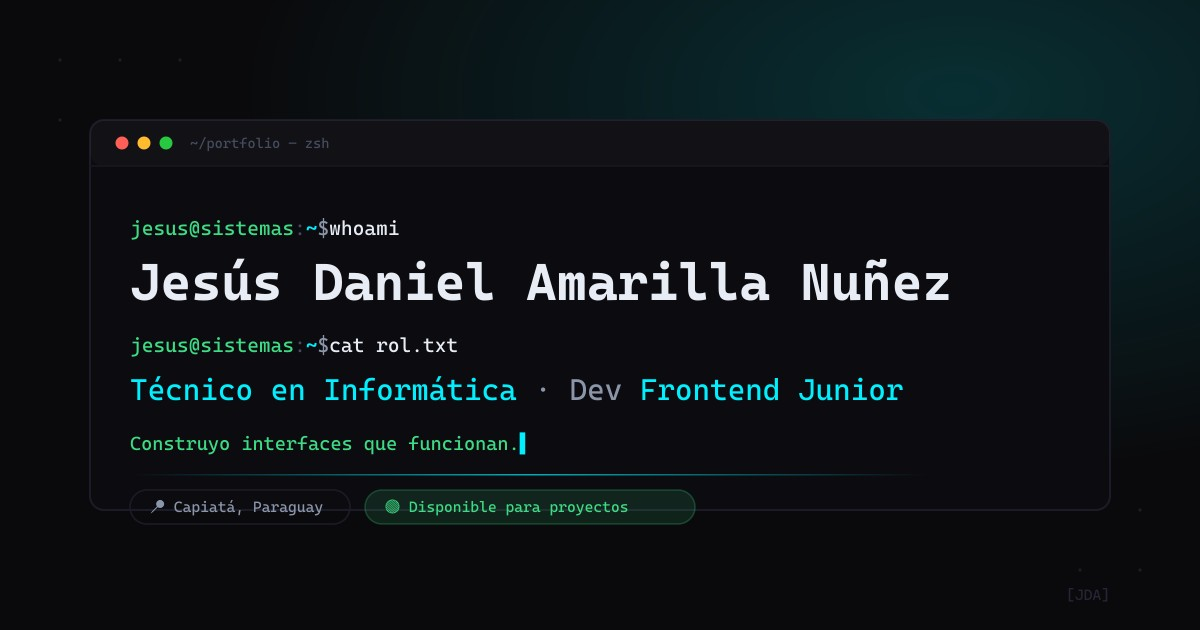
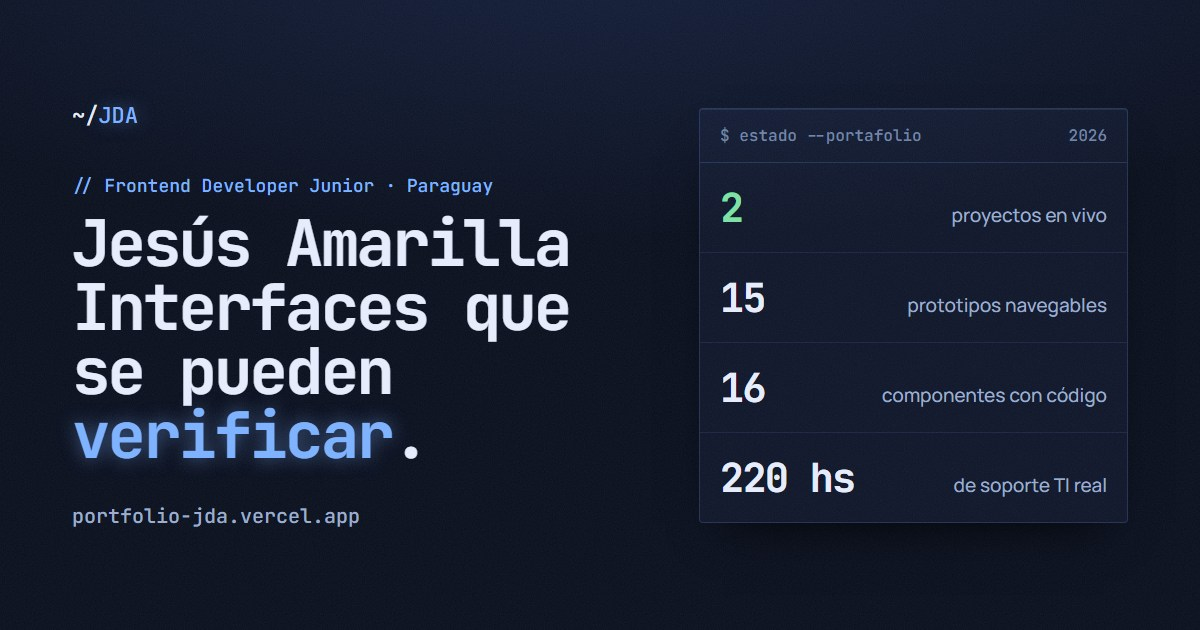
feat: demo en vivo de IR Barber Supply e imagen para redes con el nuevo diseño

diff --git a/index.html b/index.html
@@ -98,7 +98,7 @@
         <ul>
           <li><a href="https://reservaya-umber.vercel.app" target="_blank" rel="noopener noreferrer"><b>ReservaYa</b><small>Next.js + API Django REST · Vercel / Render</small></a><span class="mark live">En vivo</span></li>
           <li><a href="https://sercap.vercel.app" target="_blank" rel="noopener noreferrer"><b>SERCAP</b><small>Empresa educativa paraguaya · Vercel</small></a><span class="mark live">En vivo</span></li>
-          <li><div><b>IR Barber Supply</b><small>E-commerce en JS vanilla, estado pub/sub</small></div><span class="mark dev">En desarrollo</span></li>
+          <li><a href="https://irbarber-demo.vercel.app" target="_blank" rel="noopener noreferrer"><b>IR Barber Supply</b><small>E-commerce en JS vanilla · demo en Vercel</small></a><span class="mark dev">En desarrollo</span></li>
         </ul>
         <div class="prompt" aria-hidden="true"><b>jesus@portafolio</b>:~$ <span class="caret"></span></div>
       </aside>
@@ -145,7 +145,7 @@
         <article class="glass proj reveal">
           <div class="row"><span class="mark dev">En desarrollo · 2025</span></div>
           <h3>IR Barber Supply</h3>
-          <div class="urlbar dev"><i aria-hidden="true"></i><span>Prototipo funcional · código privado</span></div>
+          <div class="urlbar dev"><i aria-hidden="true"></i><span>irbarber-demo.vercel.app · demo del prototipo</span></div>
           <p>E-commerce de insumos para barberías con precios mayorista y minorista, en JavaScript vanilla y sin frameworks.</p>
           <div class="stack"><span>JavaScript ES6+</span><span>Módulos</span><span>pub/sub</span><span>localStorage</span></div>
           <details class="case">
@@ -156,6 +156,7 @@
               <div><dt>Qué demuestra</dt><dd>Diseñar una arquitectura de estado desde cero y modelar lógica de negocio real para un mercado específico.</dd></div>
             </dl>
           </details>
+          <div class="links"><a href="https://irbarber-demo.vercel.app" target="_blank" rel="noopener noreferrer">Ver demo</a><span class="note">Código privado</span></div>
         </article>
       </div>
       <div class="links more-repos reveal"><a href="https://github.com/Dani01001" target="_blank" rel="noopener noreferrer">Ver todos los repositorios en GitHub</a></div>
